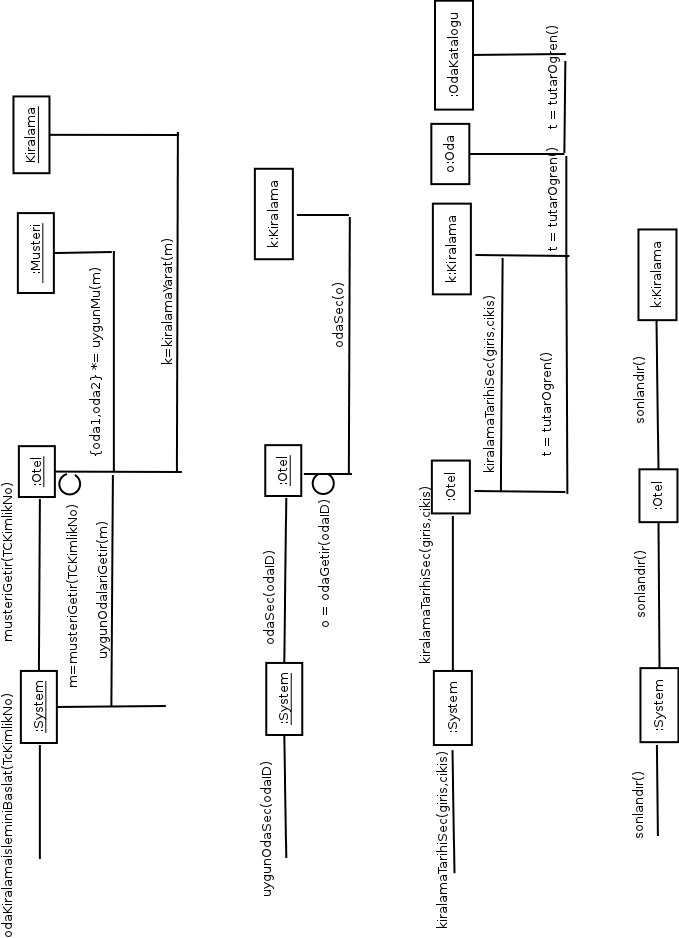
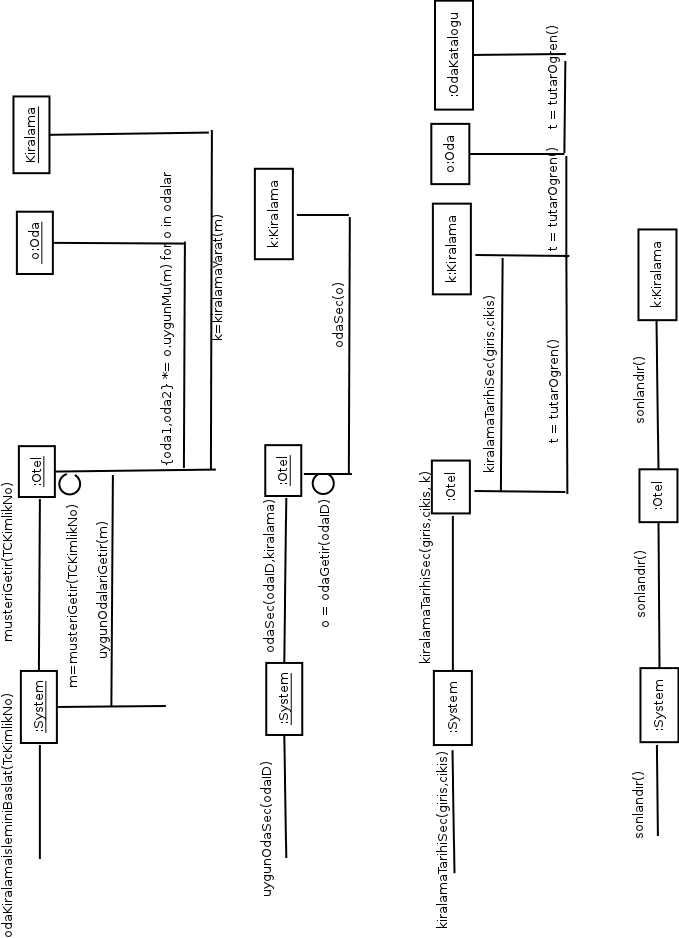
katalog secme ve diagramlar

diff --git a/theoverlookhotel/src/Otel.java b/theoverlookhotel/src/Otel.java
@@ -8,6 +8,7 @@ public class Otel {
 	private List<Oda> odaListesi;
 	private List<Resepsiyonist> resepsiyonistListesi;
 	private List<Musteri> musteriListesi;
+	private List<OdaKatalogu>  katalogListesi;
 	private boolean uygunluk;
 	private int otelID;
 	
@@ -63,6 +64,7 @@ public class Otel {
 		odaListesi = new ArrayList<Oda>();
 		resepsiyonistListesi = new ArrayList<Resepsiyonist>();
 		musteriListesi = new ArrayList<Musteri>();
+		katalogListesi = new ArrayList<OdaKatalogu>();
 		
 	}
 	
@@ -94,6 +96,10 @@ public class Otel {
 				_innerList.add(i);			
 		}
 		return _innerList;
+	}
+	
+	public void katalogEkle(OdaKatalogu katalog){
+		katalogListesi.add(katalog);
 	}
 	
 	public int odaEkle(){
@@ -202,5 +208,13 @@ public class Otel {
 	public void kiralamaSonlandir(Kiralama kiralama) {
 		this.kiralamaSonlandir(kiralama);
 		
+	}
+
+	public List<OdaKatalogu> kataloglariGetir() {
+		return this.katalogListesi;
+	}
+	
+	public void katalogSec(OdaKatalogu katalog, Oda oda) {
+		oda.katalogSec(katalog);
 	}
 }

diff --git a/theoverlookhotel/src/Sistem.java b/theoverlookhotel/src/Sistem.java
@@ -25,9 +25,16 @@ public class Sistem {
 
 	}
 	
+	public List<OdaKatalogu> kataloglariGetir(){
+		return this.aktifOtel.kataloglariGetir();
+	}
+	
+	public void katalogSec(OdaKatalogu katalog,Oda oda){
+		this.aktifOtel.katalogSec(katalog,oda);
+	}
+	
 	public void uygunOdaSec(int odaID) {
 		aktifOtel.uygunOdaSec(odaID, kiralama);
-
 	}
 	
 	public float kiralamaTarihiSec(int girisGun, int girisAy, int girisYil,
@@ -49,10 +56,6 @@ public class Sistem {
 		return aktifOtel.odaYarat();
 	}
 	
-	public void katalogSec(Oda o, int _katalogID) {
-		o.katalogSec(_katalogID);
-
-	}
 	
 	public void odaOzellikleriBelirt(Oda o, int odaNo) {
 		o.odaOzellikleriBelirt(odaNo);

diff --git a/theoverlookhotel/src/Oda.java b/theoverlookhotel/src/Oda.java
@@ -49,8 +49,8 @@ public class Oda {
 		
 	}
 
-	public void katalogSec(int _katalogID) {
-		// TODO Auto-generated method stub
+	public void katalogSec(OdaKatalogu katalog) {
+		this.odaKatalogu = katalog;
 		
 	}
 
